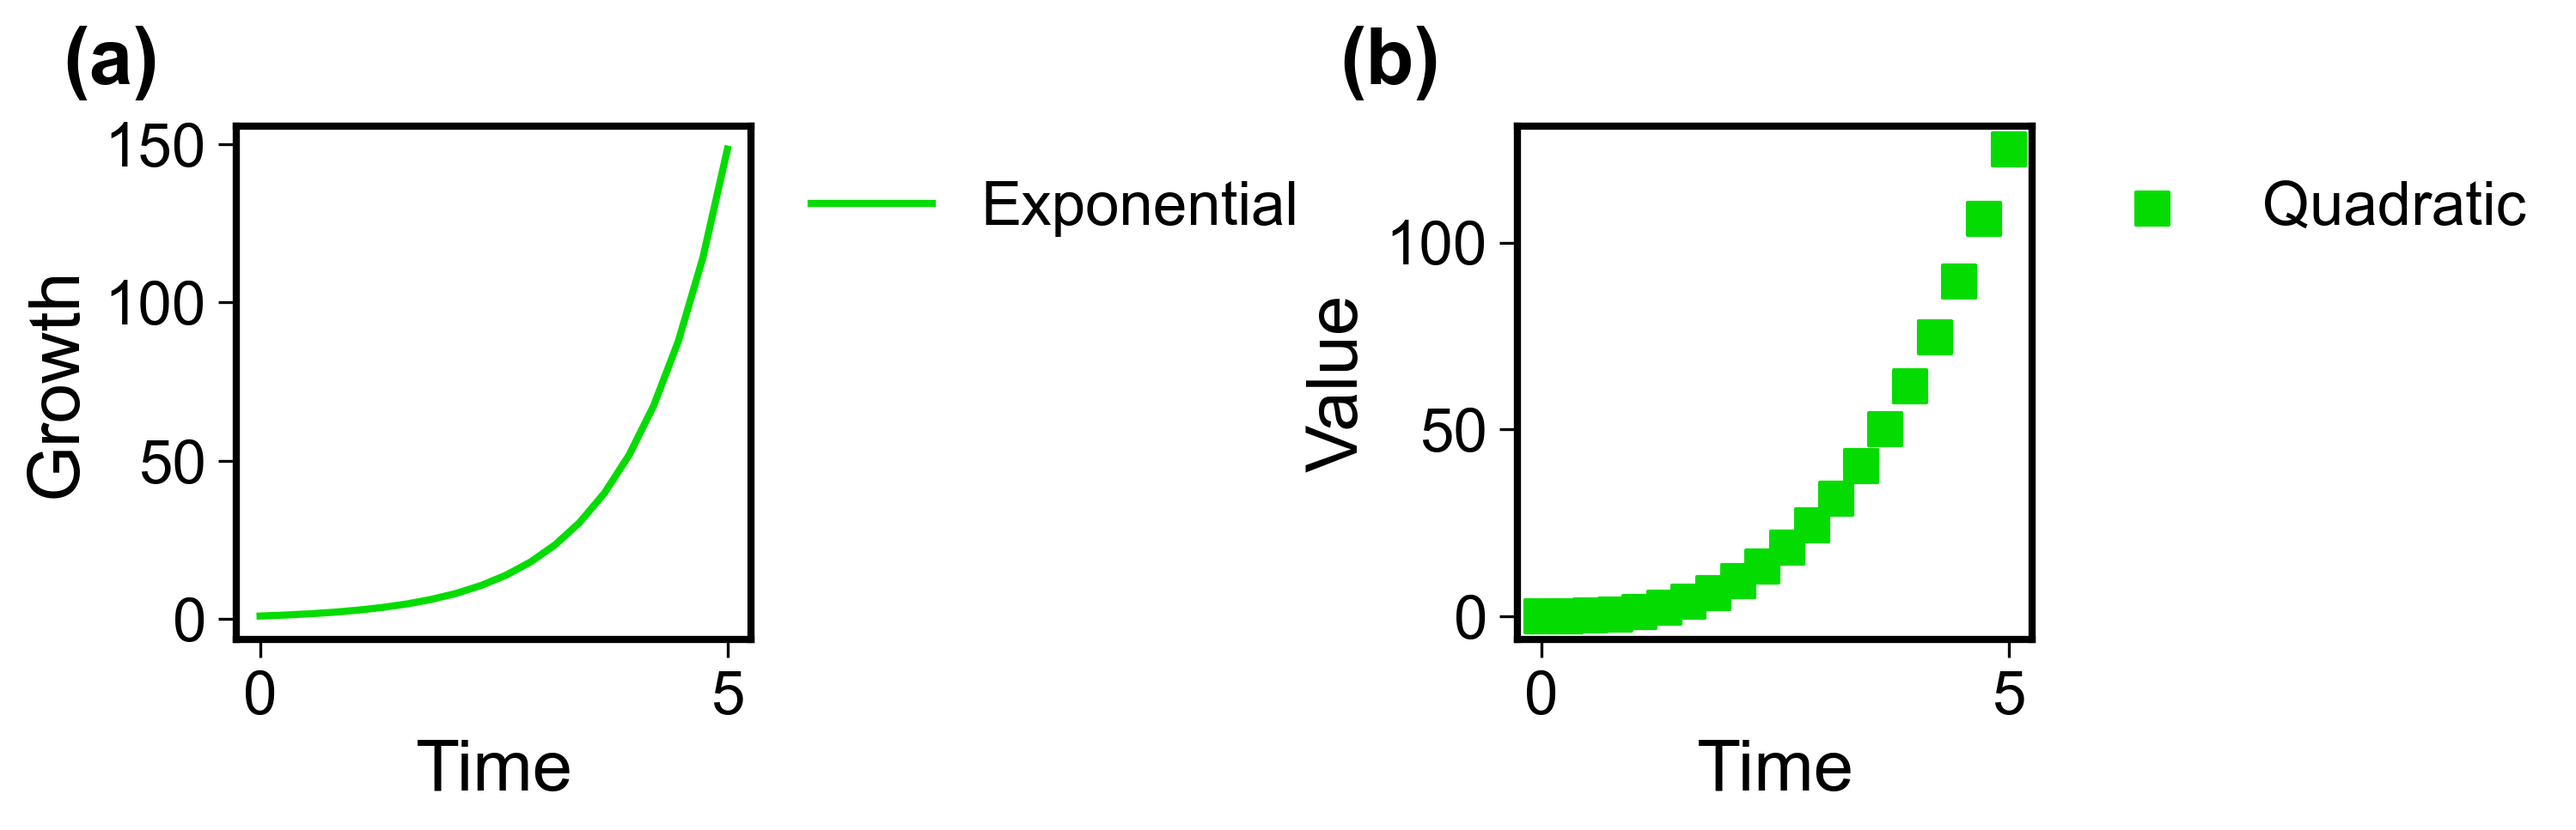
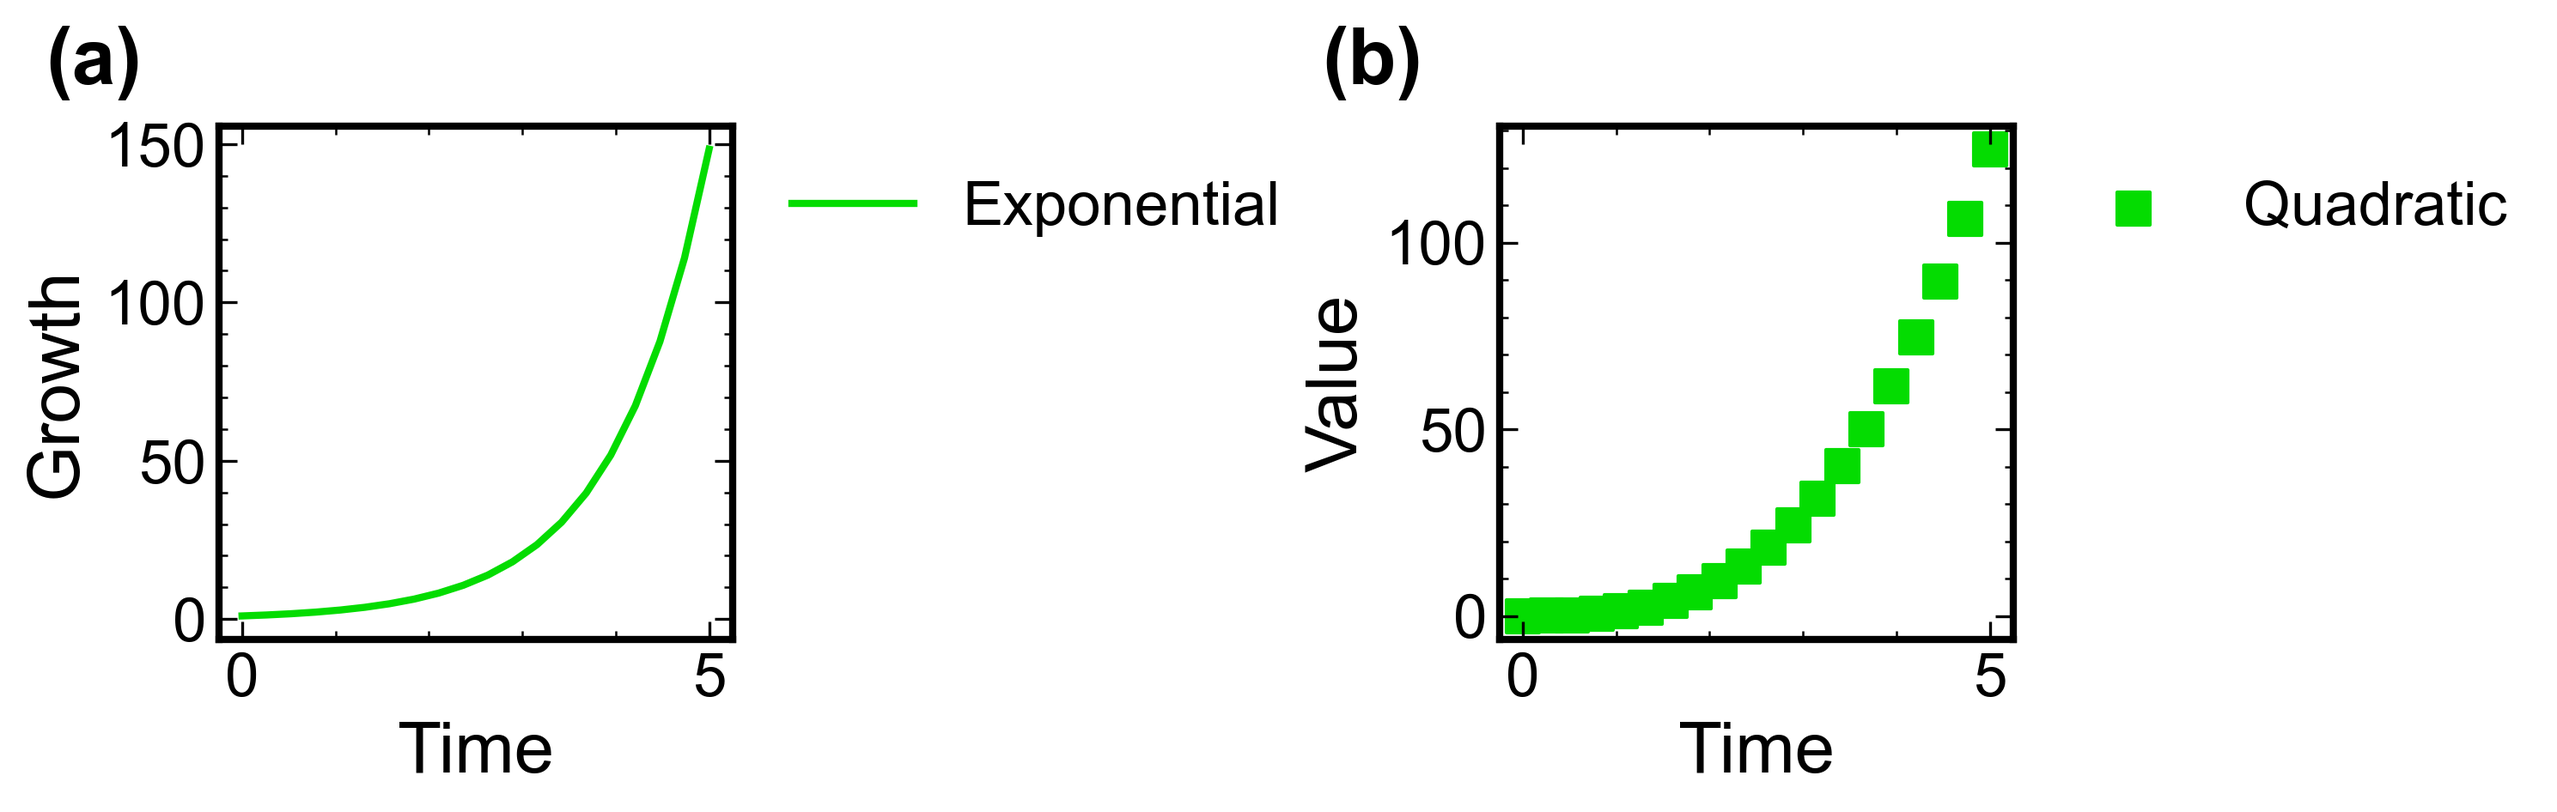
###

diff --git a/symple_plot/plotter.py b/symple_plot/plotter.py
@@ -320,7 +320,19 @@ class symple_plot:
         if not is_logx: self.ax.xaxis.set_major_formatter(AutoSmartFormatter())
         if not is_logy: self.ax.yaxis.set_major_formatter(AutoSmartFormatter())
             
-        self.ax.tick_params(axis='both', labelsize=self.axinum, length=self.tlength)
+        # 🌟 論文仕様: 内向き・四方・マイナー目盛りのデフォルト化 🌟
+        if not is_3d:
+            self.ax.minorticks_on() # 補助目盛りをON
+            # 主目盛り (長く、数字あり)
+            self.ax.tick_params(which='major', direction='in', length=self.tlength, 
+                                top=True, bottom=True, left=True, right=True, labelsize=self.axinum)
+            # 補助目盛り (短く、数字なし)
+            self.ax.tick_params(which='minor', direction='in', length=self.tlength * 0.5, 
+                                top=True, bottom=True, left=True, right=True)
+        else:
+            # 3Dグラフは四方囲みができないため、通常設定
+            self.ax.tick_params(axis='both', labelsize=self.axinum, length=self.tlength)
+
         if kwargs.get('nox', False): self.ax.tick_params(labelbottom=False)
         if kwargs.get('noy', False): self.ax.tick_params(labelleft=False)
 
@@ -663,7 +675,12 @@ class symple_plot:
         if not is_logx: axins.xaxis.set_major_formatter(AutoSmartFormatter())
         if not is_logy: axins.yaxis.set_major_formatter(AutoSmartFormatter())
         
-        axins.tick_params(labelsize=self.axinum - 7)
+        # 🌟 小窓も内向き・四方・マイナー目盛りに統一 🌟
+        axins.minorticks_on()
+        axins.tick_params(which='major', direction='in', length=self.tlength * 0.7, 
+                          top=True, bottom=True, left=True, right=True, labelsize=self.axinum - 7)
+        axins.tick_params(which='minor', direction='in', length=self.tlength * 0.35, 
+                          top=True, bottom=True, left=True, right=True)
 
         if draw_lines:
             self.ax.indicate_inset_zoom(axins, edgecolor="black", alpha=0.5)

diff --git a/setup.py b/setup.py
@@ -2,7 +2,7 @@ from setuptools import setup, find_packages
 
 setup(
     name="symple_plot",
-    version="0.1.3.7",
+    version="0.1.3.8",
     packages=find_packages(),
     install_requires=[
         "numpy",
